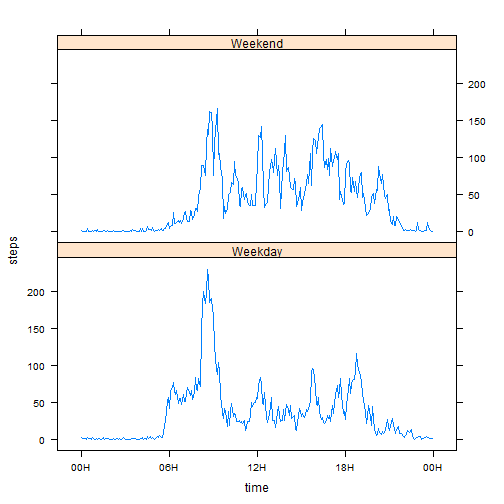
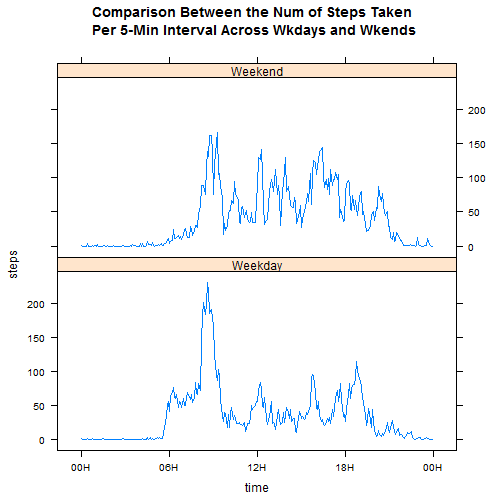
cosmetic changes
1) highlighted keywords
2) created titles for plots
3) changed histogram from percent to count
4) corrected grammatical errors

diff --git a/PA1_template.html b/PA1_template.html
@@ -224,13 +224,15 @@ activityTotalSteps &lt;- aggregate(x=activityWoNa$steps,
                                 FUN=sum)
 colnames(activityTotalSteps) &lt;- c(&quot;date&quot;, &quot;steps&quot;)
 library(lattice)
-histogram(activityTotalSteps$steps, main=&quot;Histogram of Steps Taken Each Day&quot;, 
-          xlab=&quot;total num of steps taken each day&quot;)
+histogram(activityTotalSteps$steps, type=c(&quot;count&quot;),
+          main=&quot;Histogram of Total Num of Steps Taken Each Day&quot;, 
+          xlab=&quot;total num of steps taken each day&quot;,
+          ylab=&quot;num of days&quot;)
 </code></pre>
 
[2 lines of base64/hex data omitted]
 
-<p>The mean and median are calculated as follow:</p>
+<p>The <strong>mean</strong> and <strong>median</strong> are calculated as follow:</p>
 
 <pre><code class="r">mean(activityTotalSteps$steps)
 </code></pre>
@@ -260,13 +262,14 @@ activityFiveMinMean$time &lt;- strptime(paste(activityFiveMinMean$interval%/%100
 with(activityFiveMinMean,
      xyplot(steps ~ as.POSIXct(time), type=&quot;l&quot;, xlab=&quot;time&quot;,
             scales=list(x=list(at= seq(time[1], by=&quot;6 hour&quot;, length=5), 
-                               labels=format(seq(time[1], by=&quot;6 hour&quot;, length=5), &quot;%HH&quot;))))
+                               labels=format(seq(time[1], by=&quot;6 hour&quot;, length=5), &quot;%HH&quot;))),
+            main=&quot;Average Num of Steps Taken vs 5-Min Intervals&quot;)
 )
 </code></pre>
 
[2 lines of base64/hex data omitted]
 
-<p>To find out the 5 min interval that contains the largest number of steps:</p>
+<p>To find out the 5 min interval that contains the <strong>maximum number of steps</strong>:</p>
 
 <pre><code class="r">maxStep &lt;- max(activityFiveMinMean$steps)
 for(i in 1:nrow(activityFiveMinMean)) {
@@ -289,7 +292,7 @@ for(i in 1:nrow(activityFiveMinMean)) {
 <pre><code>## [1] 2304
 </code></pre>
 
-<p>And now, we are going to fill them in. The strategy is to substitute them with their respective 5-minute interval across all days. The code to do this is as follow:</p>
+<p>And now, we are going to fill them in. <strong>The strategy is to substitute them with their respective 5-minute interval across all days.</strong> The code to do this is as follow:</p>
 
 <pre><code class="r"># creating a named vector; this essentially works as a hashmap
 activityFiveMinMeanV &lt;- activityFiveMinMean$steps
@@ -309,13 +312,16 @@ for(i in 1:nrow(activityFilled)) {
 <pre><code class="r">activityTotalSteps2 &lt;- aggregate(x=activityFilled$steps, by=list(cut(activityFilled$date, 
                                                                      breaks=&quot;day&quot;)), FUN=sum)
 colnames(activityTotalSteps2) &lt;- c(&quot;date&quot;, &quot;steps&quot;)
-histogram(activityTotalSteps2$steps, main=&quot;Histogram of Steps Taken Each Day&quot;, 
-          xlab=&quot;total num of steps taken each day&quot;)
+histogram(activityTotalSteps2$steps, type=c(&quot;count&quot;),
+          main=paste(&quot;Histogram of Total Num of Steps Taken Each Day\n&quot;,
+                     &quot;(After Inputing Missing Values)&quot;), 
+          xlab=&quot;total num of steps taken each day&quot;,
+          ylab=&quot;num of days&quot;)
 </code></pre>
 
[2 lines of base64/hex data omitted]
 
-<p>And the mean and median:</p>
+<p>And the <strong>mean</strong> and <strong>median</strong>:</p>
 
 <pre><code class="r">mean(activityTotalSteps2$steps)
 </code></pre>
@@ -329,7 +335,7 @@ histogram(activityTotalSteps2$steps, main=&quot;Histogram of Steps Taken Each Da
 <pre><code>## [1] 10766
 </code></pre>
 
-<p>We find that the frequencies around the mean increases, and that the mean and median are very close to their previous values.  These are expected because we are after all inputing the mean value of 5-minutes interval across all day, which in effect contributes to the daily mean in a more or less neutral manner.  And since now that the <em>NA</em> values are being substituted with neutral values, its occurances increases, making the mean containing bar even taller in its histogram.  This also, in effect, increases the chances of making the median same as the mean.</p>
+<p>We find that the frequencies around the mean increases, and that the mean and median are very close to their previous values.  These are expected because we are after all inputing the mean value of 5-minutes interval across all day, which in effect contributes to the daily mean in a more or less neutral manner.  And since now that the <em>NA</em> values are being substituted with neutral values, its occurances increases, making the mean containing bar even taller in its histogram.  This also, in effect, increases the chances of making the median the same as the mean.</p>
 
 <h2>Differences in Activity Patterns between Weekdays and Weekends</h2>
 
@@ -350,18 +356,20 @@ activityDayType$time &lt;- as.POSIXct(activityDayType$time)
 with(activityDayType, 
   xyplot(steps ~ time | day, type=&quot;l&quot;, layout=c(1,2),
          scales=list(x=list(at= seq(time[1], by=&quot;6 hour&quot;, length=5), 
-                            labels=format(seq(time[1], by=&quot;6 hour&quot;, length=5), &quot;%HH&quot;))))
+                            labels=format(seq(time[1], by=&quot;6 hour&quot;, length=5), &quot;%HH&quot;))),
+         main=paste(&quot;Comparison Between the Num of Steps Taken\n&quot;,
+                    &quot;Per 5-Min Interval Across Wkdays and Wkends&quot;))
 )
 </code></pre>
 
[2 lines of base64/hex data omitted]
 
 <p>It is interesting to note the following points:</p>
 
 <ul>
 <li>the number of steps peak at around the same time</li>
-<li>the peak is higher on weekday than on weekend (indicates higher walking speed)</li>
-<li>activity starts earlier on weekday</li>
+<li>the peak is higher on weekdays than on weekends (indicates higher walking speed)</li>
+<li>activity starts earlier on weekdays</li>
 </ul>
 
 </body>

diff --git a/PA1_template.md b/PA1_template.md
@@ -44,13 +44,15 @@ activityTotalSteps <- aggregate(x=activityWoNa$steps,
                                 FUN=sum)
 colnames(activityTotalSteps) <- c("date", "steps")
 library(lattice)
-histogram(activityTotalSteps$steps, main="Histogram of Steps Taken Each Day", 
-          xlab="total num of steps taken each day")
+histogram(activityTotalSteps$steps, type=c("count"),
+          main="Histogram of Total Num of Steps Taken Each Day", 
+          xlab="total num of steps taken each day",
+          ylab="num of days")
 ```
 
 ![plot of chunk unnamed-chunk-2](figure/unnamed-chunk-2.png) 
 
-The mean and median are calculated as follow:
+The **mean** and **median** are calculated as follow:
 
 ```r
 mean(activityTotalSteps$steps)
@@ -84,13 +86,14 @@ activityFiveMinMean$time <- strptime(paste(activityFiveMinMean$interval%/%100,
 with(activityFiveMinMean,
      xyplot(steps ~ as.POSIXct(time), type="l", xlab="time",
             scales=list(x=list(at= seq(time[1], by="6 hour", length=5), 
-                               labels=format(seq(time[1], by="6 hour", length=5), "%HH"))))
+                               labels=format(seq(time[1], by="6 hour", length=5), "%HH"))),
+            main="Average Num of Steps Taken vs 5-Min Intervals")
 )
 ```
 
 ![plot of chunk unnamed-chunk-4](figure/unnamed-chunk-4.png) 
 
-To find out the 5 min interval that contains the largest number of steps:
+To find out the 5 min interval that contains the **maximum number of steps**:
 
 ```r
 maxStep <- max(activityFiveMinMean$steps)
@@ -116,7 +119,7 @@ sum(is.na(activity$steps)==TRUE)
 ## [1] 2304
 ```
 
-And now, we are going to fill them in. The strategy is to substitute them with their respective 5-minute interval across all days. The code to do this is as follow:
+And now, we are going to fill them in. **The strategy is to substitute them with their respective 5-minute interval across all days.** The code to do this is as follow:
 
 ```r
 # creating a named vector; this essentially works as a hashmap
@@ -139,13 +142,16 @@ Analysing on the resulting histogram:
 activityTotalSteps2 <- aggregate(x=activityFilled$steps, by=list(cut(activityFilled$date, 
                                                                      breaks="day")), FUN=sum)
 colnames(activityTotalSteps2) <- c("date", "steps")
-histogram(activityTotalSteps2$steps, main="Histogram of Steps Taken Each Day", 
-          xlab="total num of steps taken each day")
+histogram(activityTotalSteps2$steps, type=c("count"),
+          main=paste("Histogram of Total Num of Steps Taken Each Day\n",
+                     "(After Inputing Missing Values)"), 
+          xlab="total num of steps taken each day",
+          ylab="num of days")
 ```
 
 ![plot of chunk unnamed-chunk-8](figure/unnamed-chunk-8.png) 
 
-And the mean and median:
+And the **mean** and **median**:
 
 ```r
 mean(activityTotalSteps2$steps)
@@ -163,7 +169,7 @@ median(activityTotalSteps2$steps)
 ## [1] 10766
 ```
 
-We find that the frequencies around the mean increases, and that the mean and median are very close to their previous values.  These are expected because we are after all inputing the mean value of 5-minutes interval across all day, which in effect contributes to the daily mean in a more or less neutral manner.  And since now that the *NA* values are being substituted with neutral values, its occurances increases, making the mean containing bar even taller in its histogram.  This also, in effect, increases the chances of making the median same as the mean.
+We find that the frequencies around the mean increases, and that the mean and median are very close to their previous values.  These are expected because we are after all inputing the mean value of 5-minutes interval across all day, which in effect contributes to the daily mean in a more or less neutral manner.  And since now that the *NA* values are being substituted with neutral values, its occurances increases, making the mean containing bar even taller in its histogram.  This also, in effect, increases the chances of making the median the same as the mean.
 
 ## Differences in Activity Patterns between Weekdays and Weekends
 
@@ -185,7 +191,9 @@ activityDayType$time <- as.POSIXct(activityDayType$time)
 with(activityDayType, 
   xyplot(steps ~ time | day, type="l", layout=c(1,2),
          scales=list(x=list(at= seq(time[1], by="6 hour", length=5), 
-                            labels=format(seq(time[1], by="6 hour", length=5), "%HH"))))
+                            labels=format(seq(time[1], by="6 hour", length=5), "%HH"))),
+         main=paste("Comparison Between the Num of Steps Taken\n",
+                    "Per 5-Min Interval Across Wkdays and Wkends"))
 )
 ```
 
@@ -193,5 +201,5 @@ with(activityDayType,
 
 It is interesting to note the following points:
 * the number of steps peak at around the same time
-* the peak is higher on weekday than on weekend (indicates higher walking speed)
-* activity starts earlier on weekday
+* the peak is higher on weekdays than on weekends (indicates higher walking speed)
+* activity starts earlier on weekdays
